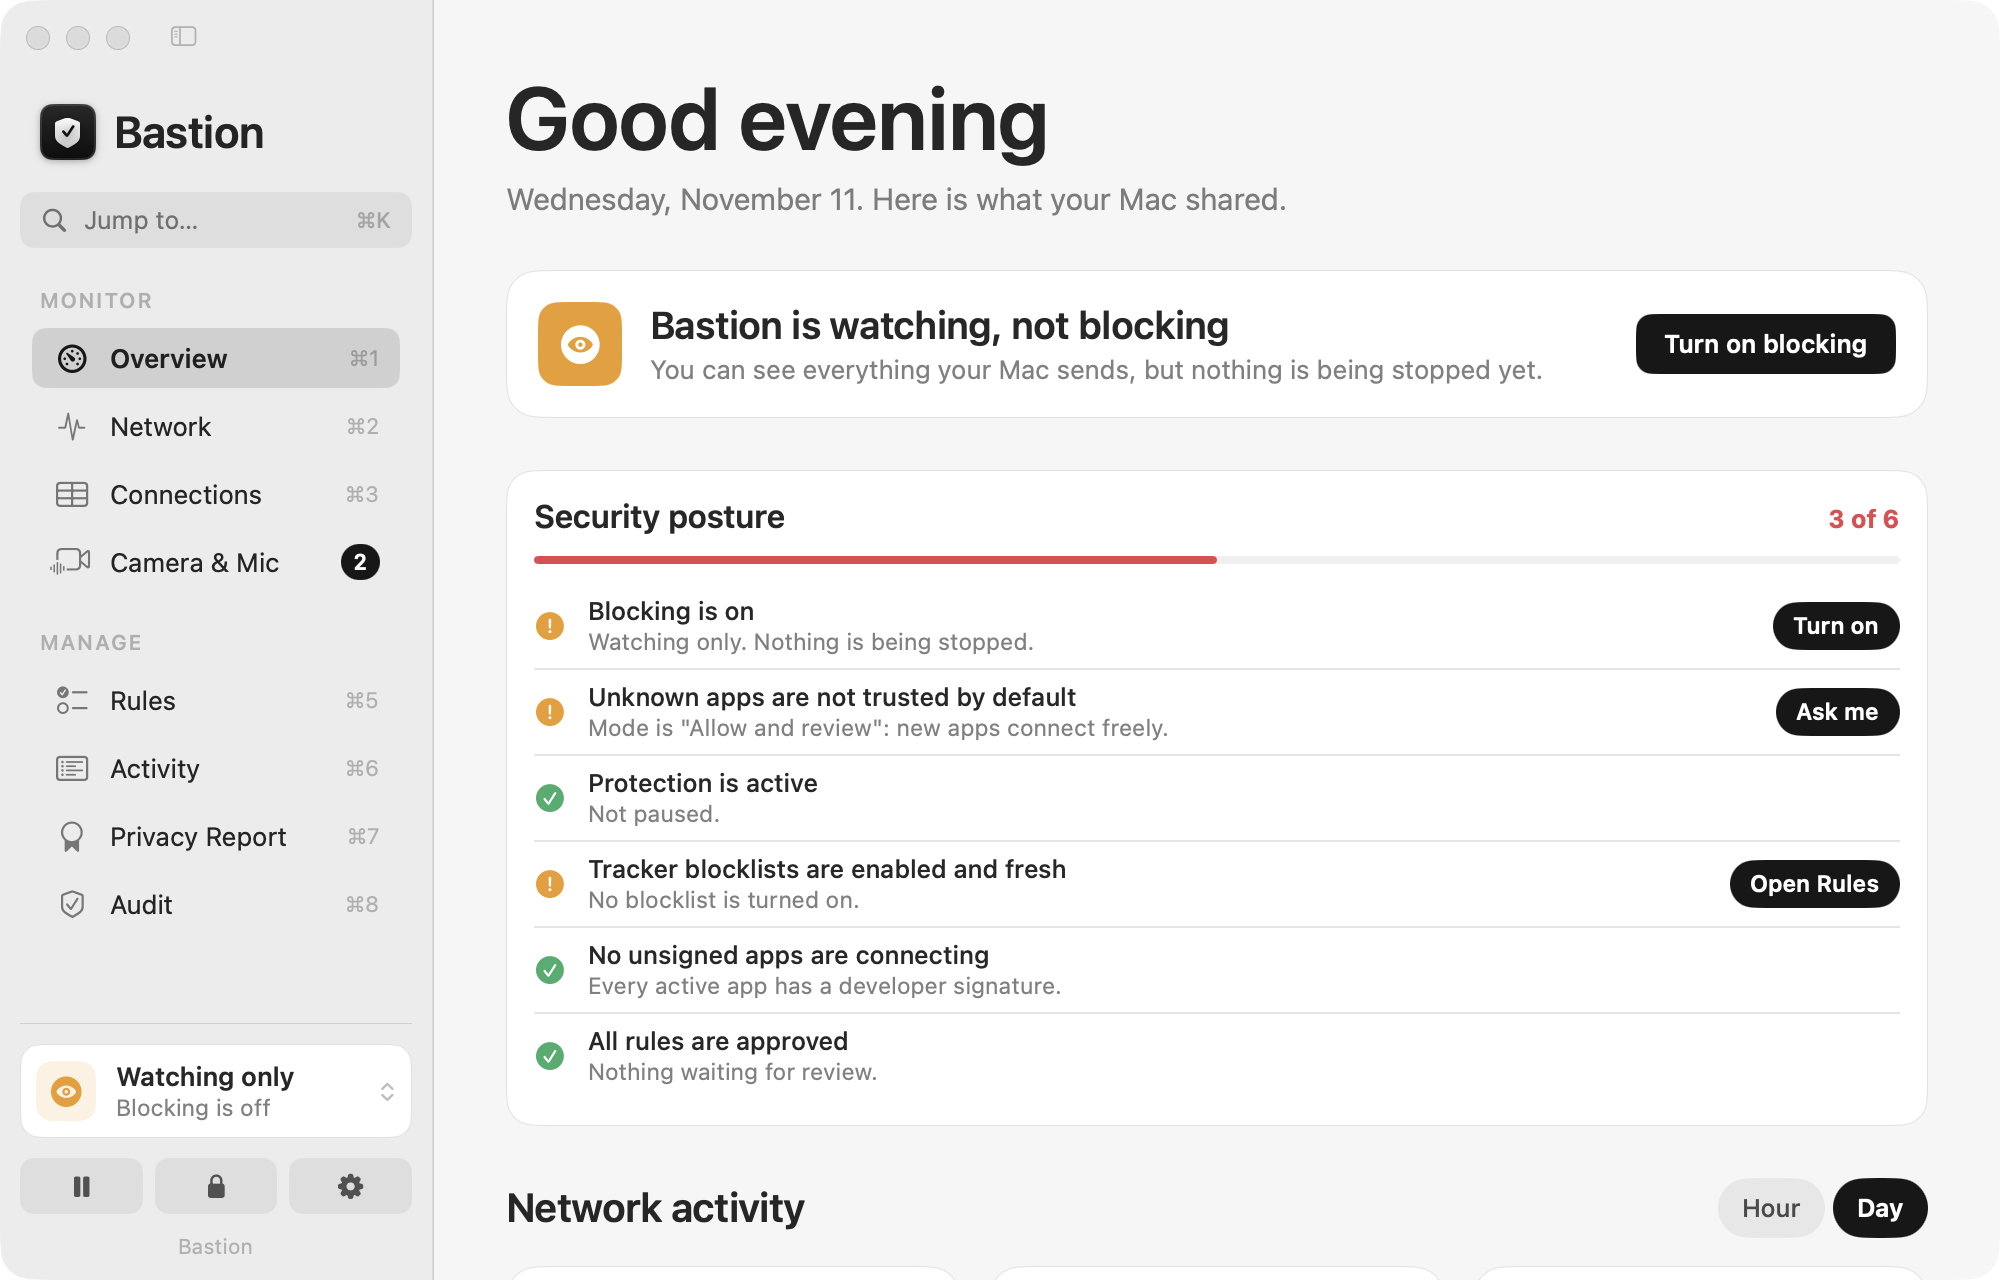
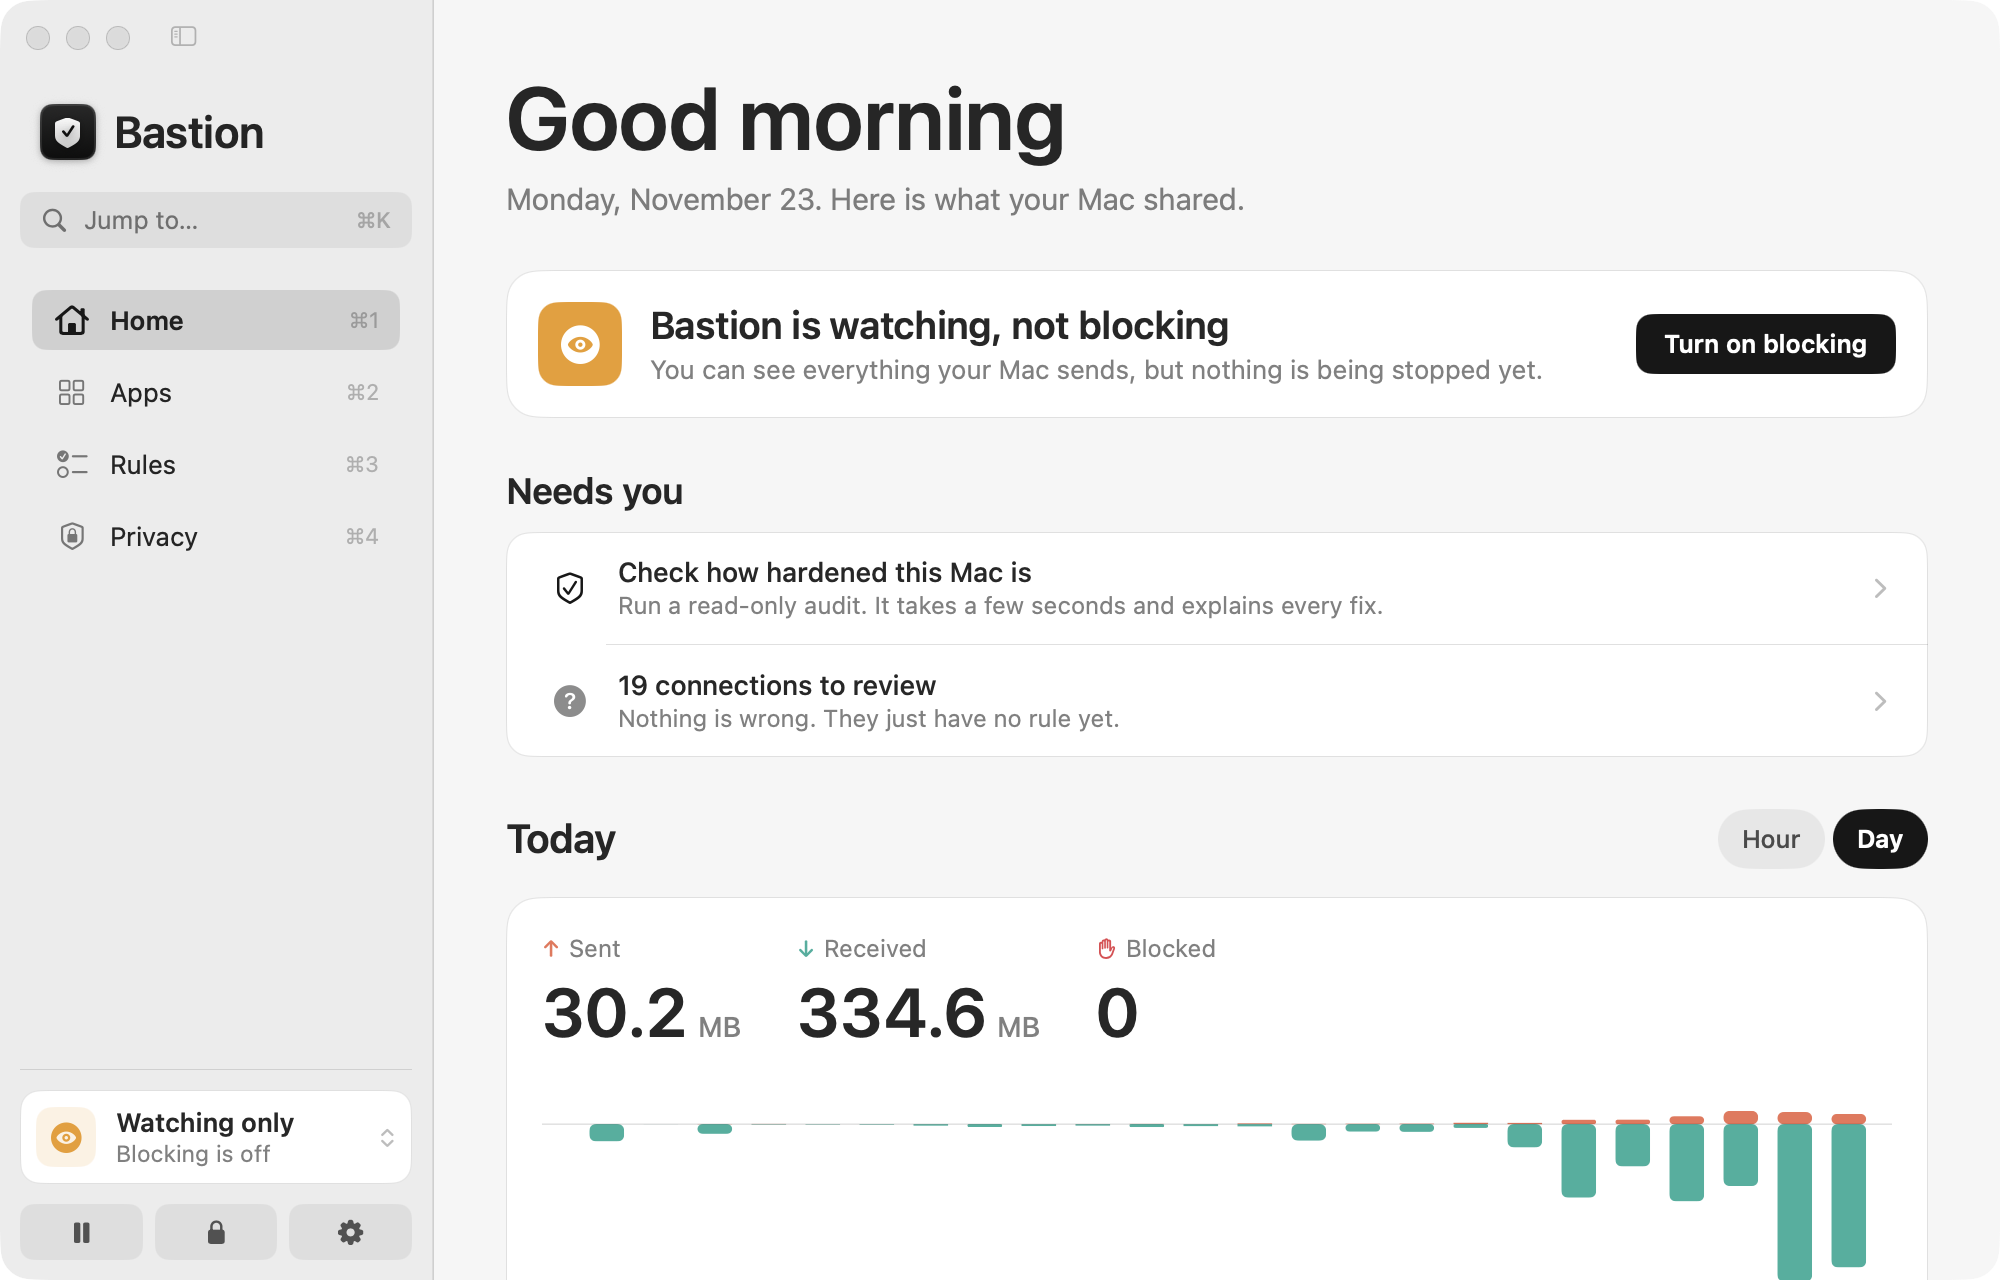
Screenshots for 0.9.0: the four-page layout

diff --git a/README.md b/README.md
@@ -19,8 +19,8 @@ Per-app traffic monitoring, connection rules, and a camera and microphone watchd
 <br/>
 
 <p align="center">
-  <img src="docs/images/monitor-light.png" width="49%" alt="Network Monitor, light" />
-  <img src="docs/images/monitor-dark.png" width="49%" alt="Network Monitor, dark" />
+  <img src="docs/images/monitor-light.png" width="49%" alt="Apps, light" />
+  <img src="docs/images/monitor-dark.png" width="49%" alt="Apps, dark" />
 </p>
 
 <br/>
@@ -58,7 +58,7 @@ There is no account and no cloud. Nothing about your traffic leaves your Mac.
 - Spoken summary on **⌃⌘M**, useful with VoiceOver.
 
 ### Built to feel native
-- Light and dark appearance, a menu-bar popover with live rates, keyboard shortcuts (**⌘1 to ⌘8** for each page, **⌘K** to jump anywhere, **⌘F**), and a guided first-run setup.
+- Light and dark appearance, a menu-bar popover with live rates, keyboard shortcuts (**⌘1 to ⌘4** for the four pages, **⌘K** to jump anywhere, **⌘F**), and a guided first-run setup.
 
 <br/>
 
